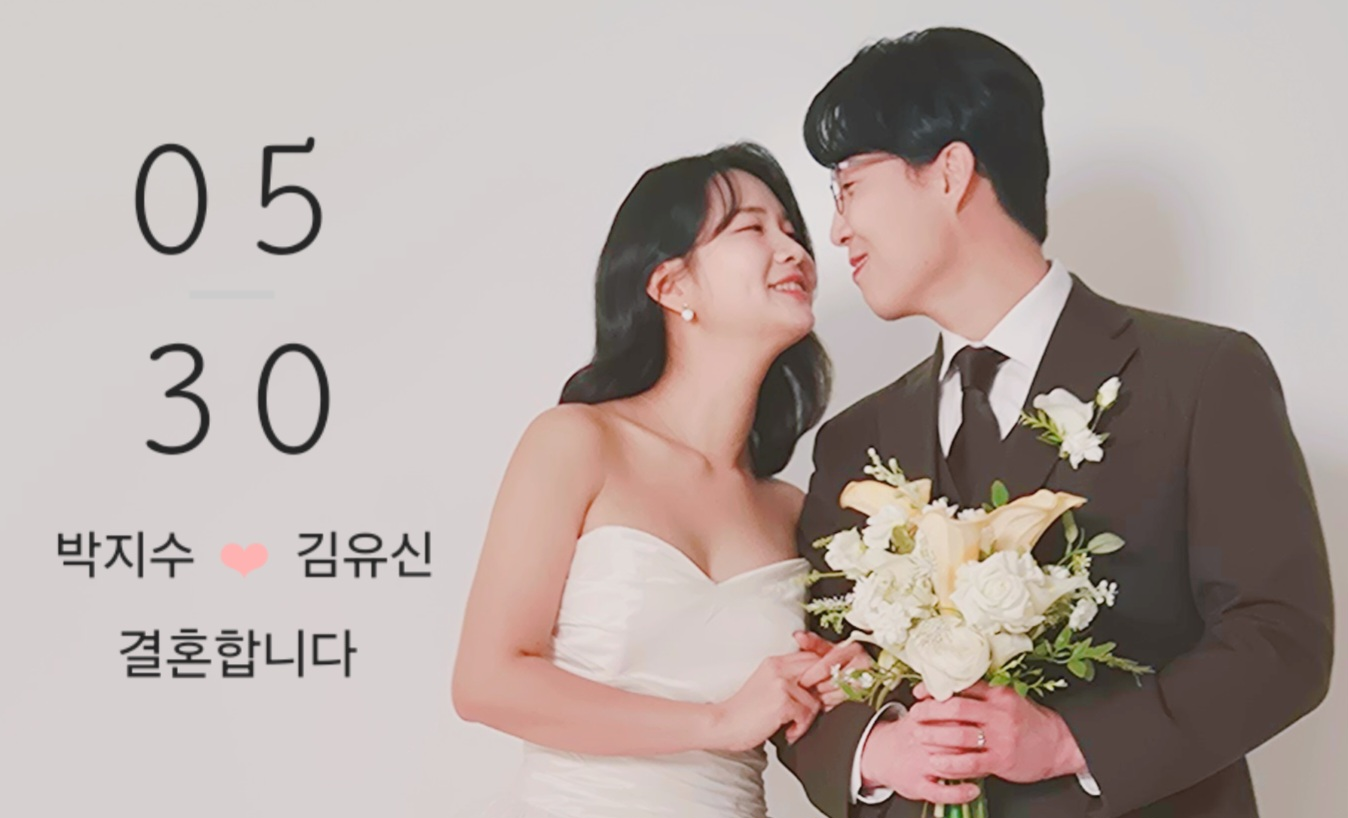
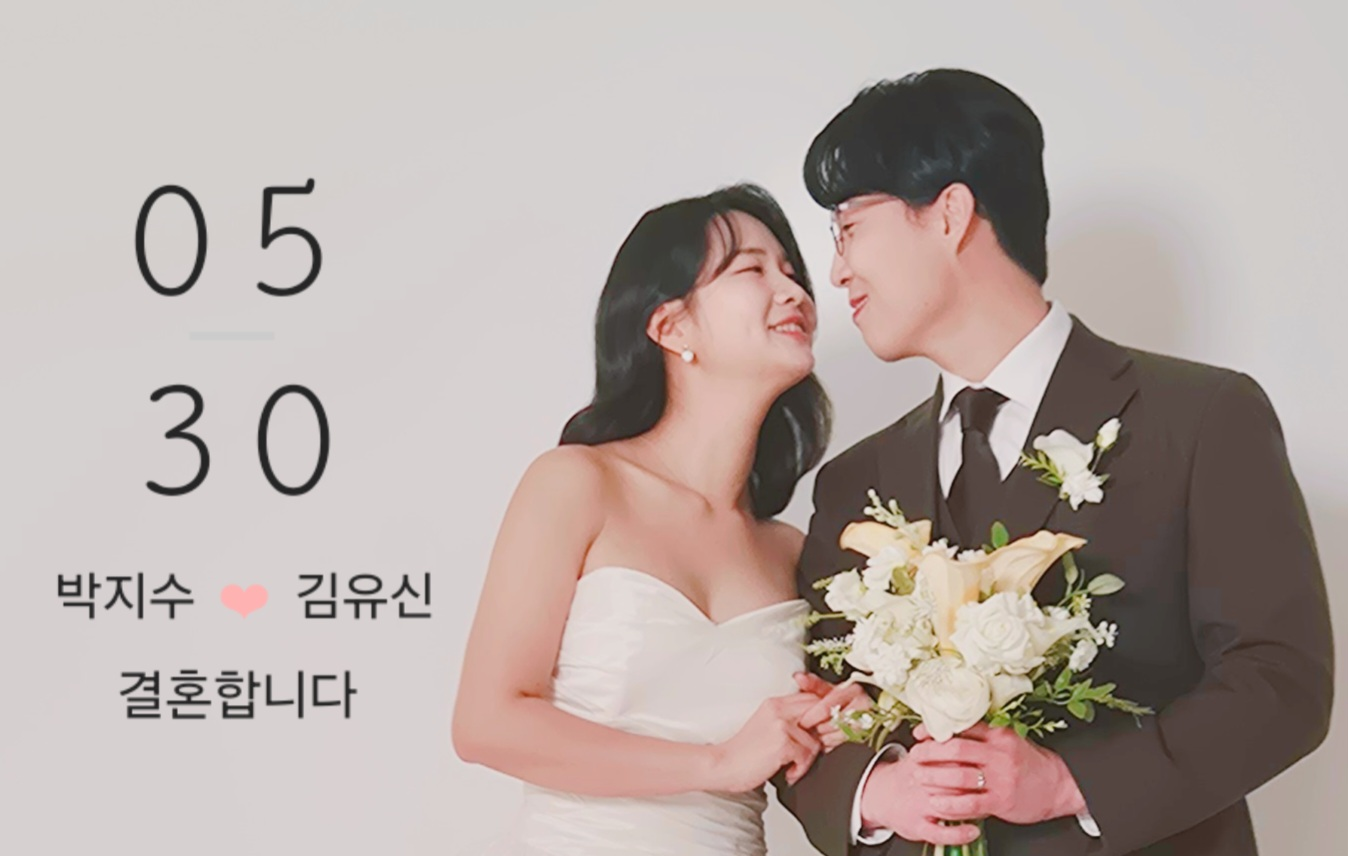
이미지 리사이징

diff --git a/src/constants/wedding.js b/src/constants/wedding.js
@@ -92,7 +92,8 @@ const SITE_URL = 'https://jisooyusinwedding.vercel.app';
 export const KAKAO_SHARE = {
   title: '박지수 ❤ 김유신 결혼합니다.',
   description: '5월 30일(토) 오후 5시 30분, 보타닉파크웨딩 카라홀',
-  imageUrl: `${SITE_URL}/images/kakao.jpg`, // 카카오 공유하기 = kakao.jpg
+  // 이미지 URL에 버전 파라미터 추가하여 카카오톡 캐시 무효화
+  imageUrl: `${SITE_URL}/images/kakao.jpg?v=2`, // 카카오 공유하기 = kakao.jpg
   linkUrl: SITE_URL,
 };
 
